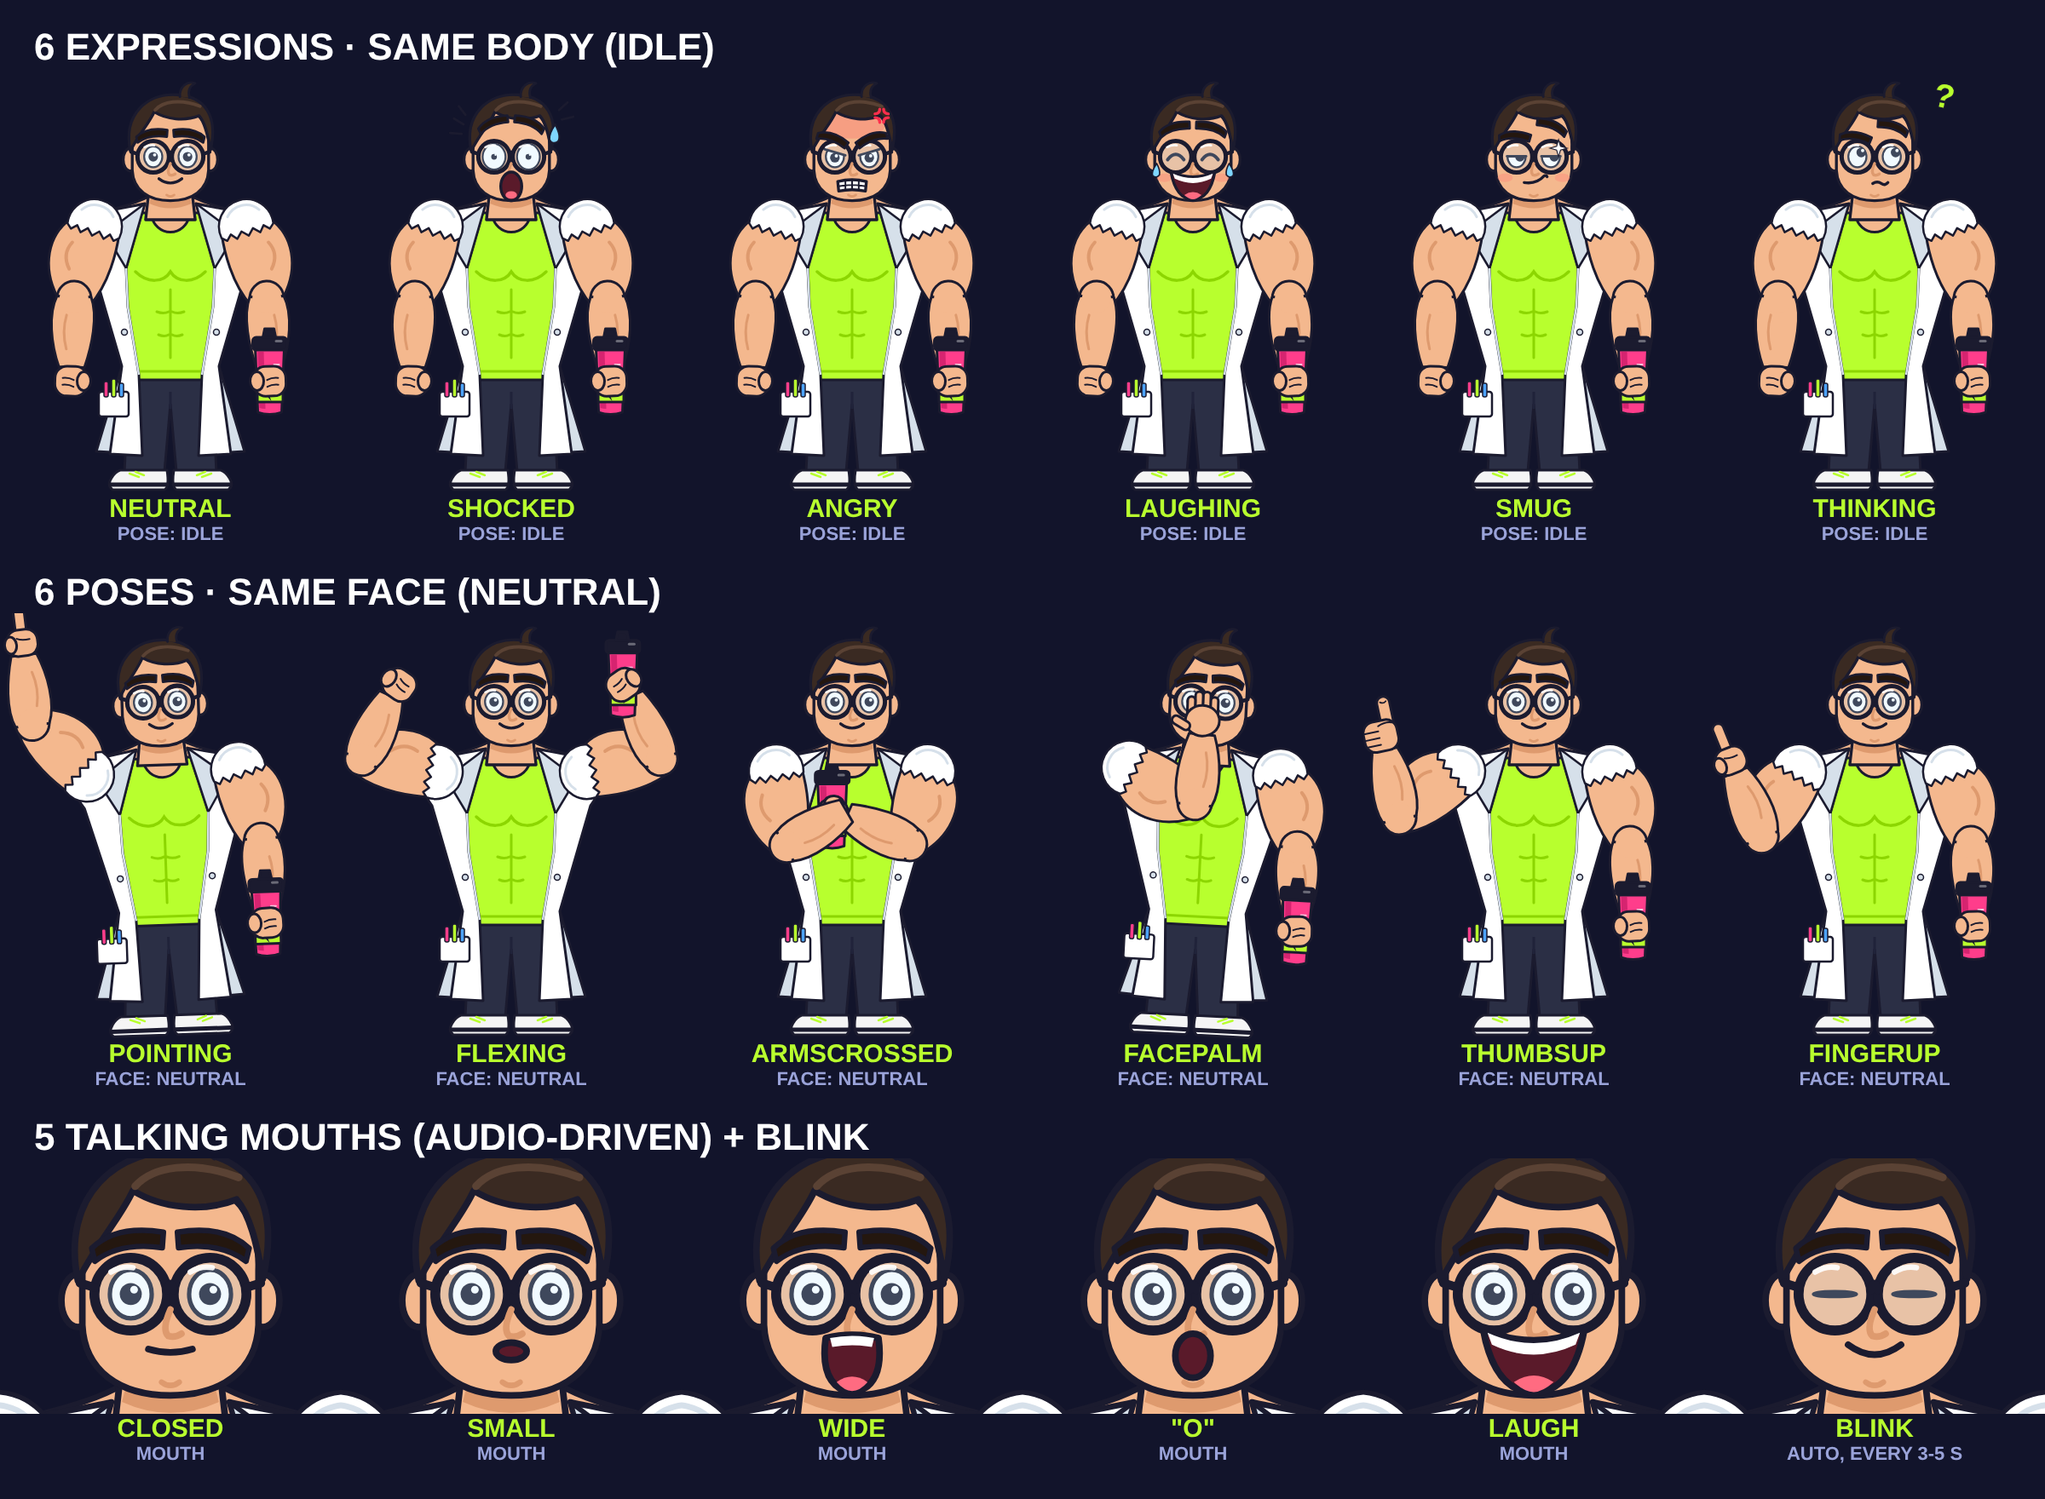
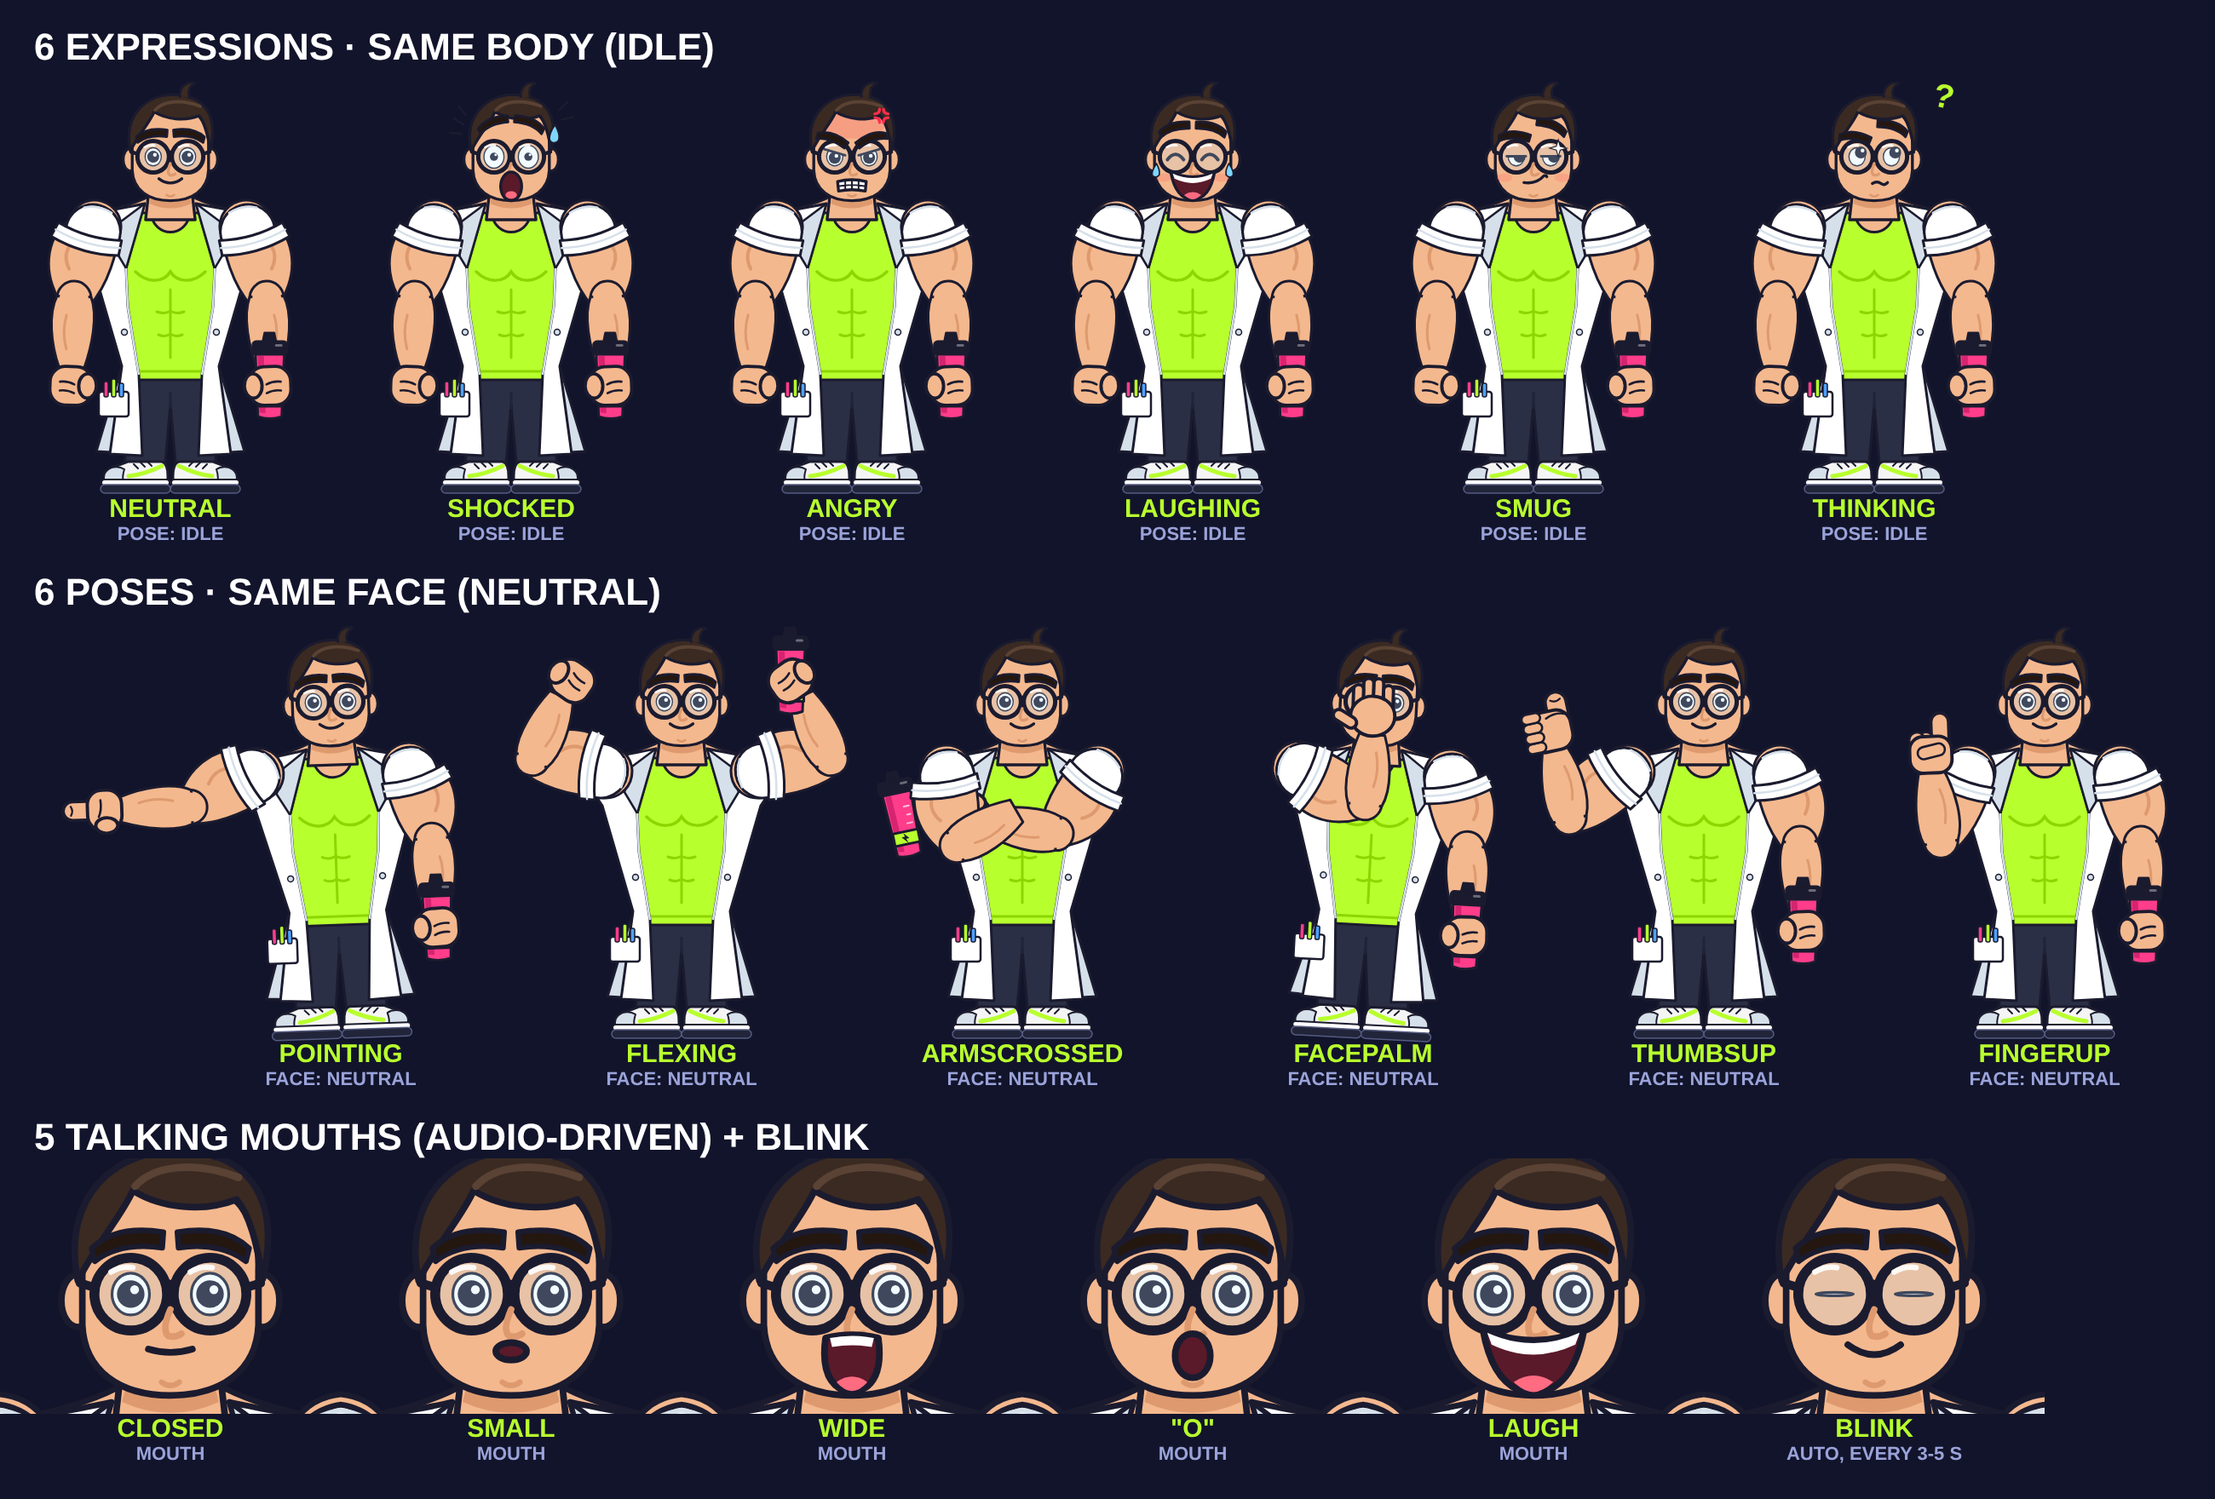
Max visual fixes: rolled sleeves, bigger hands, sideways point, softer eyes, tucked shaker, chunky sneakers
- shoulders: smooth white cap + thick rolled cuff with fold lines, inside the arm group
- hands scaled 1.3x (shaker unchanged); chunkier, shorter index finger and thumb
- pointing: arm near horizontal, finger pointing screen-left at on-screen text
- fingerUp gets its own 'number one' hand so it no longer reads as thumbs-up
- eyes: thinner eye-white outline, smaller whites, bigger pupils
- armsCrossed: shaker tucked under the armpit, peeking out beside the bicep
- sneakers: upper, toe cap, lime stripe, laces, white midsole, thick dark sole
- MaxFrame composition for full-size 1080x1920 checks

Claude-Session: https://claude.ai/code/session_01GoqCQX4U6VGTC9K9XRct2V

diff --git a/src/max/Hand.tsx b/src/max/Hand.tsx
@@ -12,38 +12,69 @@ const Fist: React.FC = () => (
   </g>
 );
 
-export const Hand: React.FC<{ shape: HandShape; worldAngle: number }> = ({ shape, worldAngle }) => {
+export const HAND_SCALE = 1.3; // hands only; the shaker keeps its own size
+
+export const Hand: React.FC<{ shape: HandShape; worldAngle: number; shakerTilt?: number; shakerOffset?: [number, number] }> = ({
+  shape,
+  worldAngle,
+  shakerTilt = 0,
+  shakerOffset = [0, 0],
+}) => {
+  if (shape === 'shaker') {
+    return (
+      <g>
+        <g transform={`translate(0 ${37 * HAND_SCALE}) rotate(${-worldAngle}) translate(${-shakerOffset[0]} ${shakerOffset[1]}) rotate(${shakerTilt})`}>
+          <Shaker />
+        </g>
+        <g transform={`scale(${HAND_SCALE})`}>
+          <Fist />
+        </g>
+      </g>
+    );
+  }
+  return <g transform={`scale(${HAND_SCALE})`}>{handShape(shape)}</g>;
+};
+
+const handShape = (shape: HandShape) => {
   switch (shape) {
     case 'hidden':
       return null;
     case 'fist':
       return <Fist />;
     case 'shaker':
-      return (
-        <g>
-          <g transform={`translate(0 38) rotate(${-worldAngle})`}>
-            <Shaker />
-          </g>
-          <Fist />
-        </g>
-      );
+      return null; // handled above
     case 'point':
       return (
         <g>
-          <rect x={-13} y={40} width={26} height={86} rx={13} fill={C.skin} {...line} />
+          <rect x={-17} y={36} width={34} height={72} rx={17} fill={C.skin} {...line} />
+          <path d="M -8 94 Q 0 89 8 94" fill="none" {...line} strokeWidth={3.5} />
           <rect x={-36} y={2} width={72} height={62} rx={26} fill={C.skin} {...line} />
           <path d="M -18 40 Q 0 38 12 44" fill="none" {...line} strokeWidth={4} />
           <ellipse cx={28} cy={30} rx={14} ry={20} fill={C.skin} {...line} />
+        </g>
+      );
+    case 'one':
+      // "number one": palm to camera, index finger up, other fingers curled, thumb across
+      return (
+        <g>
+          <rect x={-34} y={36} width={32} height={74} rx={16} fill={C.skin} {...line} />
+          {[8, 24].map((x) => (
+            <circle key={x} cx={x} cy={62} r={14} fill={C.skin} {...line} strokeWidth={4} />
+          ))}
+          <rect x={-38} y={2} width={76} height={66} rx={24} fill={C.skin} {...line} />
+          <rect x={-26} y={30} width={50} height={22} rx={11} fill={C.skin} {...line} strokeWidth={4} transform="rotate(-12 0 41)" />
         </g>
       );
     case 'thumbsUp':
       // used with the forearm pointing up: thumb sticks out past the fist along +y
       return (
         <g>
-          <rect x={-34} y={44} width={30} height={84} rx={15} fill={C.skin} {...line} />
-          <path d="M -26 116 Q -19 110 -12 116" fill="none" {...line} strokeWidth={3.5} />
+          <rect x={-38} y={44} width={38} height={62} rx={19} fill={C.skin} {...line} />
+          <path d="M -28 92 Q -19 86 -10 92" fill="none" {...line} strokeWidth={3.5} />
           <rect x={-38} y={2} width={80} height={72} rx={26} fill={C.skin} {...line} />
-          <path d="M 6 18 L 40 18 M 6 34 L 40 34 M 6 50 L 40 50" fill="none" {...line} strokeWidth={4} />
+          {[2, 20, 38, 56].map((y) => (
+            <rect key={y} x={14} y={y + 2} width={34} height={18} rx={9} fill={C.skin} {...line} strokeWidth={4} />
+          ))}
           <path d="M -30 64 Q -14 70 4 62" fill="none" {...line} strokeWidth={4} />
         </g>
       );

diff --git a/src/max/poses.ts b/src/max/poses.ts
@@ -1,7 +1,7 @@
 // Arm rig. Each arm is drawn pointing straight down, then rotated at the shoulder,
 // elbow and wrist. The screen-right arm is mirrored, so positive angles always mean
 // "outward / away from the body" for both arms.
-export type HandShape = 'fist' | 'point' | 'thumbsUp' | 'open' | 'shaker' | 'hidden';
+export type HandShape = 'fist' | 'point' | 'one' | 'thumbsUp' | 'open' | 'shaker' | 'hidden';
 export type PoseName = 'idle' | 'pointing' | 'flexing' | 'armsCrossed' | 'facepalm' | 'thumbsUp' | 'fingerUp';
 
 export const POSE_NAMES: PoseName[] = ['pointing', 'flexing', 'armsCrossed', 'facepalm', 'thumbsUp', 'fingerUp'];
@@ -12,6 +12,8 @@ export interface ArmDef {
   wrist: number;
   hand: HandShape;
   front?: boolean; // draw above the head (e.g. facepalm)
+  shakerTilt?: number; // extra shaker rotation (deg) when this hand holds it
+  shakerOffset?: [number, number]; // shaker shift in screen-aligned px (x = outward)
 }
 export interface PoseDef { left: ArmDef; right: ArmDef; lean?: number; frontArm?: 'left' | 'right' }
 
@@ -19,14 +21,16 @@ const hang = (hand: HandShape = 'shaker'): ArmDef => ({ shoulder: 16, elbow: -14
 
 export const POSES: Record<PoseName, PoseDef> = {
   idle: { left: hang('fist'), right: hang('shaker') },
-  pointing: { left: { shoulder: 135, elbow: 40, wrist: 0, hand: 'point' }, right: hang('shaker'), lean: -2 },
+  // points sideways (screen-left) at on-screen text: arm near horizontal, finger horizontal
+  pointing: { left: { shoulder: 66, elbow: 24, wrist: 0, hand: 'point' }, right: hang('shaker'), lean: -2 },
   flexing: {
     left: { shoulder: 100, elbow: 105, wrist: 10, hand: 'fist' },
     right: { shoulder: 100, elbow: 105, wrist: 10, hand: 'shaker' },
   },
   armsCrossed: {
     left: { shoulder: -8, elbow: -112, wrist: 0, hand: 'hidden' },
-    right: { shoulder: -14, elbow: -100, wrist: 20, hand: 'shaker', front: false },
+    // shaker hand tucked under the far bicep; the shaker peeks out beside it
+    right: { shoulder: -34, elbow: -66, wrist: 0, hand: 'shaker', shakerTilt: 12, shakerOffset: [-157, 14] },
     frontArm: 'left',
   },
   facepalm: {
@@ -35,7 +39,8 @@ export const POSES: Record<PoseName, PoseDef> = {
     lean: 3,
   },
   thumbsUp: { left: { shoulder: 52, elbow: 116, wrist: 0, hand: 'thumbsUp' }, right: hang('shaker') },
-  fingerUp: { left: { shoulder: 30, elbow: 128, wrist: 0, hand: 'point' }, right: hang('shaker') },
+  // index finger raised beside the head ("one thing...")
+  fingerUp: { left: { shoulder: 22, elbow: 150, wrist: 6, hand: 'one' }, right: hang('shaker') },
 };
 
 const lerp = (a: number, b: number, t: number) => a + (b - a) * t;
@@ -45,6 +50,8 @@ const blendArm = (a: ArmDef, b: ArmDef, t: number): ArmDef => ({
   wrist: lerp(a.wrist, b.wrist, t),
   hand: t < 0.5 ? a.hand : b.hand,
   front: t < 0.5 ? a.front : b.front,
+  shakerTilt: lerp(a.shakerTilt ?? 0, b.shakerTilt ?? 0, t),
+  shakerOffset: [lerp(a.shakerOffset?.[0] ?? 0, b.shakerOffset?.[0] ?? 0, t), lerp(a.shakerOffset?.[1] ?? 0, b.shakerOffset?.[1] ?? 0, t)],
 });
 export const blendPose = (a: PoseDef, b: PoseDef, t: number): PoseDef => ({
   left: blendArm(a.left, b.left, t),

diff --git a/src/max/Arm.tsx b/src/max/Arm.tsx
@@ -22,14 +22,11 @@ export const Arm: React.FC<{ def: ArmDef }> = ({ def }) => {
         {...line}
       />
       <path d="M -30 112 C -48 92 -50 70 -40 50" fill="none" stroke={C.skinShade} strokeWidth={8} strokeLinecap="round" />
-      {/* ripped-off lab-coat sleeve: the top of the shoulder ball, frayed edge across the arm */}
-      <path
-        d="M -63.2 10 A 64 64 0 1 1 63.2 10 L 52 20 L 40 8 L 28 22 L 14 8 L 0 22 L -14 8 L -28 22 L -40 8 L -52 20 Z"
-        fill={C.coat}
-        {...line}
-        strokeWidth={5}
-      />
-      <path d="M -40 -30 A 48 48 0 0 1 36 -34" fill="none" stroke={C.coatShade} strokeWidth={6} strokeLinecap="round" />
+      {/* rolled-up lab-coat sleeve: smooth cap over the shoulder ball + thick rolled cuff */}
+      <path d="M -63 24 A 64 64 0 1 1 63 24 Q 0 38 -63 24 Z" fill={C.coat} {...line} />
+      <path d="M -36 -36 Q -6 -52 30 -42" fill="none" stroke={C.coatShade} strokeWidth={5} strokeLinecap="round" />
+      <path d="M -84 14 Q -8 34 70 14 L 73 50 Q -8 72 -92 50 Z" fill={C.coat} {...line} />
+      <path d="M -86 32 Q -8 52 71 32" fill="none" stroke={C.coatShade} strokeWidth={5} strokeLinecap="round" />
       {/* forearm */}
       <g transform={`translate(0 ${UPPER}) rotate(${def.elbow})`}>
         <circle cx={0} cy={0} r={40} fill={C.skin} {...line} />
@@ -37,7 +34,7 @@ export const Arm: React.FC<{ def: ArmDef }> = ({ def }) => {
         <circle cx={0} cy={0} r={34} fill={C.skin} />
         <path d="M -16 40 C -24 70 -20 100 -14 120" fill="none" stroke={C.skinShade} strokeWidth={6} strokeLinecap="round" />
         <g transform={`translate(0 ${FORE}) rotate(${def.wrist})`}>
-          <Hand shape={def.hand} worldAngle={world} />
+          <Hand shape={def.hand} worldAngle={world} shakerTilt={def.shakerTilt} shakerOffset={def.shakerOffset} />
         </g>
       </g>
     </g>

diff --git a/src/max/Body.tsx b/src/max/Body.tsx
@@ -13,9 +13,13 @@ export const Legs: React.FC = () => (
     <path d="M 304 700 L 496 700 L 508 948 L 414 948 L 400 790 L 386 948 L 292 948 Z" fill={C.pants} {...line} />
     <path d="M 400 760 L 400 800" stroke={C.pantsShade} strokeWidth={6} />
     <Mirror>
-      <path d="M 282 944 L 392 944 Q 398 984 386 990 L 264 990 Q 250 980 262 962 Q 270 948 282 944 Z" fill={C.shoe} {...line} />
-      <path d="M 260 978 L 392 978" stroke={C.sole} strokeWidth={10} strokeLinecap="round" />
-      <path d="M 304 952 L 326 960 M 318 948 L 338 956" stroke={C.tank} strokeWidth={5} strokeLinecap="round" />
+      {/* chunky sneaker: upper, toe cap, lime stripe, laces, white midsole, thick dark outsole */}
+      <path d="M 300 924 L 380 924 Q 394 928 394 958 L 394 972 L 246 972 Q 238 948 262 938 Q 280 932 300 924 Z" fill={C.shoe} {...line} />
+      <path d="M 246 972 Q 238 948 262 938 Q 280 934 292 942 Q 286 960 290 972 Z" fill={C.coatShade} {...line} strokeWidth={4} />
+      <path d="M 302 958 Q 340 954 380 934" fill="none" stroke={C.tank} strokeWidth={10} strokeLinecap="round" />
+      <path d="M 314 930 L 324 940 M 330 926 L 340 936 M 346 924 L 356 934" stroke={C.outline} strokeWidth={4} strokeLinecap="round" />
+      <rect x={238} y={966} width={160} height={14} rx={7} fill="#FFFFFF" {...line} strokeWidth={4} />
+      <rect x={236} y={978} width={164} height={20} rx={10} fill={C.sole} stroke={C.soleEdge} strokeWidth={3} />
     </Mirror>
   </g>
 );

diff --git a/src/dev/ProofSheet.tsx b/src/dev/ProofSheet.tsx
@@ -18,13 +18,14 @@ const rowTitle: React.CSSProperties = { ...label, fontSize: 44, color: '#fff', t
 
 const Cell: React.FC<{ title: string; sub: string; children: React.ReactNode; h?: number }> = ({ title, sub, children, h = 500 }) => (
   <div style={{ width: CELL_W, display: 'flex', flexDirection: 'column', alignItems: 'center' }}>
-    <div style={{ width: CELL_W, height: h, overflow: "hidden" }}>{children}</div>
+    <div style={{ width: CELL_W, height: h, overflow: h < 500 ? "hidden" : "visible" }}>{children}</div>
     <div style={label}>{title}</div>
     <div style={{ ...label, fontSize: 22, color: '#9AA3D9' }}>{sub}</div>
   </div>
 );
 
-export const PROOF_SIZE = { width: CELL_W * 6, height: 1760 };
+const POSE_ROW_PAD = 200; // room for the sideways point
+export const PROOF_SIZE = { width: CELL_W * 6 + POSE_ROW_PAD, height: 1760 };
 
 // Proof that expression, pose and mouth are independent layers.
 export const ProofSheet: React.FC = () => (
@@ -38,7 +39,7 @@ export const ProofSheet: React.FC = () => (
       ))}
     </div>
     <div style={rowTitle}>6 poses · same face (neutral)</div>
-    <div style={{ display: 'flex' }}>
+    <div style={{ display: 'flex', paddingLeft: POSE_ROW_PAD }}>
       {POSE_NAMES.map((p) => (
         <Cell key={p} title={p} sub="face: neutral">
           <MaxFigure expression="neutral" pose={p} />

diff --git a/src/max/Head.tsx b/src/max/Head.tsx
@@ -25,16 +25,16 @@ const Eye: React.FC<{ x: number; y: number; style: EyeStyle; look: [number, numb
   if (style === 'happy') {
     return <path d={`M ${x - 17} ${y + 6} Q ${x} ${y - 16} ${x + 17} ${y + 6}`} fill="none" {...line} strokeWidth={7} />;
   }
-  const rx = style === 'wide' ? 24 : 19;
-  const ry = (style === 'wide' ? 27 : 22) * (1 - blink * 0.92);
-  const pr = style === 'wide' ? 6 : 10;
+  const rx = style === 'wide' ? 21 : 17;
+  const ry = (style === 'wide' ? 24 : 19) * (1 - blink * 0.92);
+  const pr = style === 'wide' ? 8.5 : 12.5;
   return (
     <g>
-      <ellipse cx={x} cy={y} rx={rx} ry={Math.max(ry, 1.5)} fill={C.eyeWhite} {...line} strokeWidth={4} />
+      <ellipse cx={x} cy={y} rx={rx} ry={Math.max(ry, 1.5)} fill={C.eyeWhite} {...line} strokeWidth={2.5} />
       {ry > 6 && (
         <g>
           <circle cx={x + lx} cy={y + ly} r={pr} fill={C.pupil} />
-          <circle cx={x + lx + 3} cy={y + ly - 4} r={pr * 0.35} fill="#fff" />
+          <circle cx={x + lx + 3.5} cy={y + ly - 4} r={pr * 0.32} fill="#fff" />
         </g>
       )}
       {style === 'angry' && ry > 6 && (

diff --git a/src/Root.tsx b/src/Root.tsx
@@ -2,11 +2,22 @@ import React from 'react';
 import { Composition } from 'remotion';
 import { ProofSheet, PROOF_SIZE } from './dev/ProofSheet';
 import { RigTest } from './dev/RigTest';
+import { MaxFrame } from './dev/MaxFrame';
+import { MaxFigureProps } from './max/MaxFigure';
 import { VIDEO } from './config';
 
 export const RemotionRoot: React.FC = () => (
   <>
     <Composition id="ProofSheet" component={ProofSheet} {...PROOF_SIZE} fps={VIDEO.fps} durationInFrames={1} />
+    <Composition
+      id="MaxFrame"
+      component={MaxFrame}
+      width={VIDEO.width}
+      height={VIDEO.height}
+      fps={VIDEO.fps}
+      durationInFrames={1}
+      defaultProps={{ expression: 'neutral', pose: 'idle' } as MaxFigureProps}
+    />
     <Composition
       id="RigTest"
       component={RigTest}

diff --git a/src/dev/MaxFrame.tsx b/src/dev/MaxFrame.tsx
@@ -1,0 +1,13 @@
+import React from 'react';
+import { AbsoluteFill } from 'remotion';
+import { MaxFigure, MaxFigureProps } from '../max/MaxFigure';
+import { C } from '../max/theme';
+
+// One full-size 1080x1920 frame of Max, for checking detail at upload resolution.
+export const MaxFrame: React.FC<MaxFigureProps> = (props) => (
+  <AbsoluteFill style={{ background: `radial-gradient(circle at 50% 40%, #232755 0%, ${C.bg} 70%)` }}>
+    <AbsoluteFill style={{ top: 260, height: 1600 }}>
+      <MaxFigure {...props} />
+    </AbsoluteFill>
+  </AbsoluteFill>
+);

diff --git a/src/max/theme.ts b/src/max/theme.ts
@@ -14,7 +14,8 @@ export const C = {
   pants: '#2B2F45',
   pantsShade: '#20233A',
   shoe: '#F5F5F5',
-  sole: '#1B1B2F',
+  sole: '#22253A',
+  soleEdge: '#555B82', // keeps the dark sole readable on the dark background
   lens: '#BFE9FF',
   eyeWhite: '#FFFFFF',
   pupil: '#1B1B2F',
